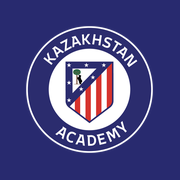
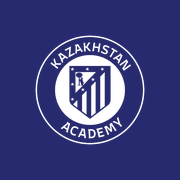
Icono: escudo en blanco y nombre Kazakhstan Atleti App
Claude-Session: https://claude.ai/code/session_013odxHA7Wrkw7j7kRNK4Spo

Changed region(s): [[0.1389, 0.1389, 0.8611, 0.8611], [0.2222, 0.6111, 0.25, 0.6667]]

diff --git a/index.html b/index.html
@@ -378,10 +378,10 @@ body.mob .rtab tr.nedit{display:block}body.mob .rtab tr.nedit td{display:block}b
 <meta property="og:image:width" content="1200">
 <meta property="og:image:height" content="630">
 <meta name="twitter:card" content="summary_large_image">
-<link rel="apple-touch-icon" href="icon-180.png">
+<link rel="apple-touch-icon" href="icon-180.png?v=2">
 <link rel="icon" type="image/png" href="icon-192.png">
 <meta name="apple-mobile-web-app-capable" content="yes">
-<meta name="apple-mobile-web-app-title" content="KZ Atlético">
+<meta name="apple-mobile-web-app-title" content="Kazakhstan Atleti App">
 <script>if("serviceWorker" in navigator)addEventListener("load",()=>navigator.serviceWorker.register("sw.js").catch(()=>{}))</script>
 <script src="https://www.gstatic.com/firebasejs/10.14.1/firebase-app-compat.js"></script>
 <script src="https://www.gstatic.com/firebasejs/10.14.1/firebase-auth-compat.js"></script>
